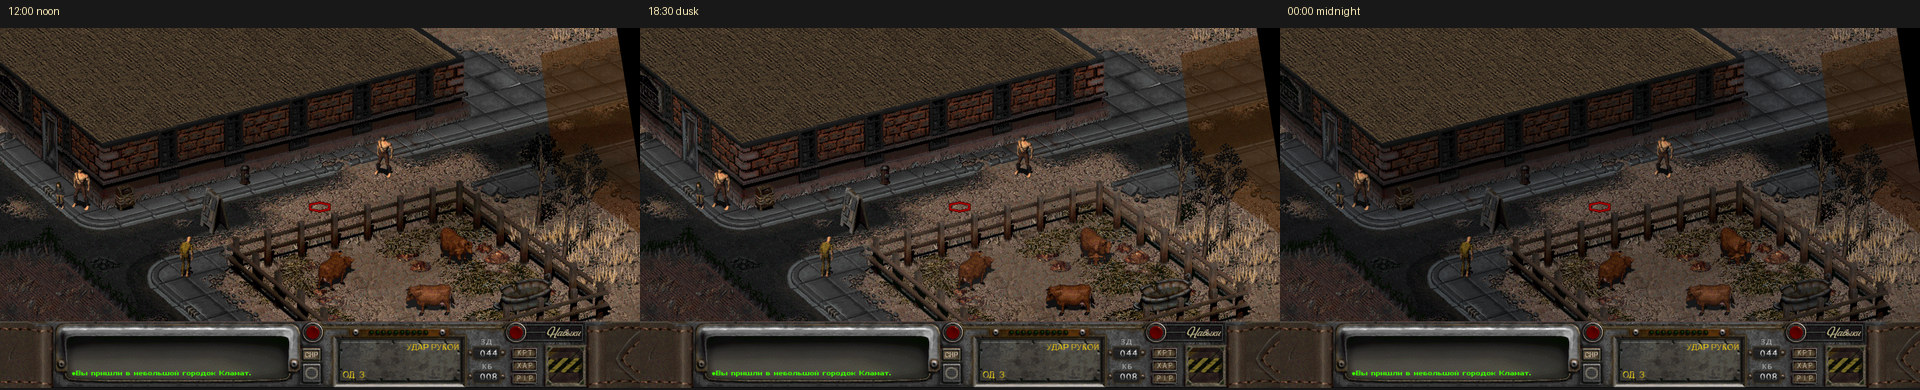
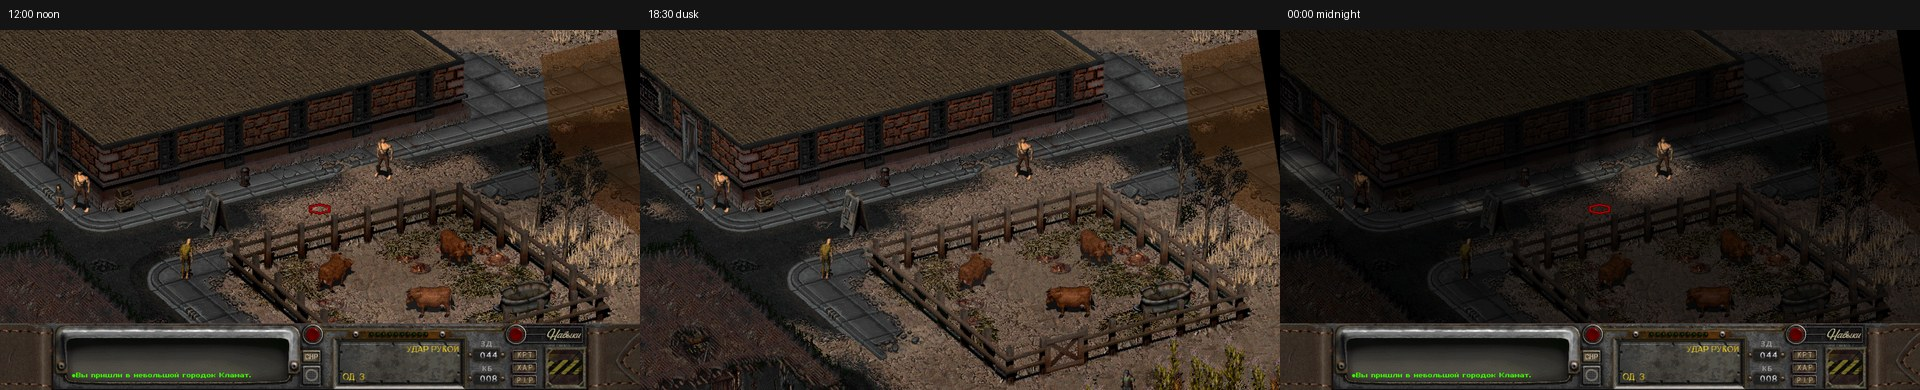
Complete night moon validation

diff --git a/tasks/194-night-moon.md b/tasks/194-night-moon.md
@@ -2,7 +2,7 @@
 id: 194
 title: The night looks like night, a weak cool moon light over the 3D view
 milestone: M1
-status: doing
+status: done
 owner: gpt
 suggested: any
 priority: low
@@ -10,7 +10,7 @@ tier: 3
 claude-only: no
 user-check: yes
 depends-on: []
-reviewed: no
+reviewed: yes
 ---
 
 ## Goal
@@ -41,4 +41,15 @@ Lamps and glows (111), clouds (143).
 
 ## Log
 
+Added a cool, dim moon directional light that reuses the existing sun shadow map. It fades in from 18:00 to 19:30 and fades out from 04:30 to 06:00. The night sky keeps its stars. No extra shadow pass was added.
+
+Live comparison: `runs/194-night-moon/comparison.jpg`, with the full noon, dusk and midnight frames and JSON sidecars. All three use KLADWTWN elevation 0, tile 24678, full `scene-gl`, the same camera and 1920x1080 output. Midnight is darker and cooler than noon while the scene remains readable. Evidence JPEGs are under 1 MB.
+
+Performance: matched live runs used the same executable, map, tile, renderer, resolution and shadows. After excluding the first three startup windows and the final capture/exit window, seven frame-time windows averaged 16.84 ms at noon and 16.70 ms at midnight. Midnight is 0.14 ms faster.
+
+Checks: Release build passed; CTest 20/20, scene-export Python tests 125/125, regression-tool Python tests 12/12. Full regression passed all 106 spots and elevations with 0 changed pixels.
+
+The fly-tour captured 57/57 views before and after. Its comparison checkout was 27428dd7 instead of origin/main f6ffaa2b and contained unrelated PR #299 camera and scene changes, so that changed-pixel sheet is not treated as a valid main-baseline result.
+
+PR #301 is ready for review after CI on the evidence commit.
 
